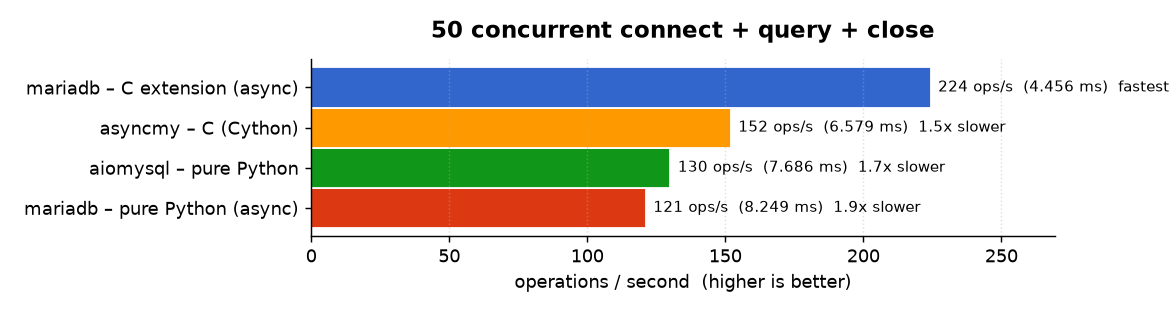
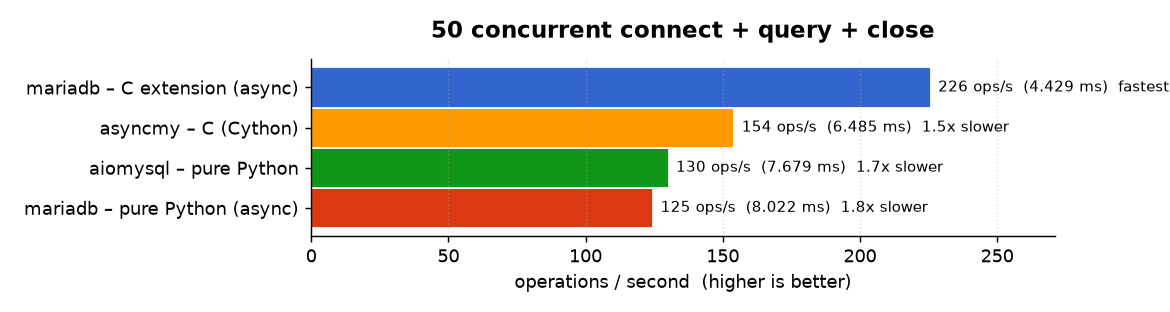
[misc] bench result update

diff --git a/benchmarks/colfunc_bench.py b/benchmarks/colfunc_bench.py
@@ -10,7 +10,7 @@ import os, time, decimal, datetime
 os.environ["MARIADB_PYTHON_CONNECTOR"] = "python"
 import mariadb
 from mariadb.impl.client.base_client import BaseClient
-from mariadb.impl.client import base_client as bc
+from mariadb.impl.client import base_client as bc  # noqa: F401  (_unpack_* helpers)
 from mariadb_shared.constants import FIELD_TYPE
 
 CFG = dict(host=os.environ.get("TEST_DB_HOST", "localhost"), port=int(os.environ.get("TEST_DB_PORT", 3306)),
@@ -57,12 +57,20 @@ def conv_time(v):
     seconds, _, fraction = parts[2].partition(b'.')
     td = _td(0, _int(parts[0]) * 3600 + _int(parts[1]) * 60 + _int(seconds), _int(fraction.ljust(6, b'0')) if fraction else 0)
     return -td if negative else td
+# field types by converter, as asyncmy's decoder table keys them (the driver
+# itself no longer has such sets: it folds the type into a per-column code when
+# the column definition is decoded, see column_definition_packet.KIND_*)
+_STRING_TYPES = frozenset((FIELD_TYPE.VARCHAR, FIELD_TYPE.BIT, FIELD_TYPE.ENUM, FIELD_TYPE.SET,
+                           FIELD_TYPE.TINY_BLOB, FIELD_TYPE.MEDIUM_BLOB, FIELD_TYPE.LONG_BLOB,
+                           FIELD_TYPE.BLOB, FIELD_TYPE.VAR_STRING, FIELD_TYPE.STRING,
+                           FIELD_TYPE.GEOMETRY, FIELD_TYPE.VECTOR))
 CONV = {}
-for t in bc._TEXT_INT_TYPES: CONV[t] = _int
-for t in bc._TEXT_FLOAT_TYPES: CONV[t] = _float
-for t in bc._TEXT_DECIMAL_TYPES: CONV[t] = conv_dec
-for t in bc._TEXT_DATETIME_TYPES: CONV[t] = conv_dt
-for t in bc._TEXT_DATE_TYPES: CONV[t] = conv_date
+for t in (FIELD_TYPE.TINY, FIELD_TYPE.SHORT, FIELD_TYPE.LONG, FIELD_TYPE.LONGLONG, FIELD_TYPE.INT24, FIELD_TYPE.YEAR):
+    CONV[t] = _int
+for t in (FIELD_TYPE.FLOAT, FIELD_TYPE.DOUBLE): CONV[t] = _float
+for t in (FIELD_TYPE.DECIMAL, FIELD_TYPE.NEWDECIMAL): CONV[t] = conv_dec
+for t in (FIELD_TYPE.DATETIME, FIELD_TYPE.TIMESTAMP): CONV[t] = conv_dt
+for t in (FIELD_TYPE.DATE, FIELD_TYPE.NEWDATE): CONV[t] = conv_date
 CONV[FIELD_TYPE.TIME] = conv_time
 def build_converters(columns, num_cols):
     """asyncmy's _get_descriptions() equivalent: one converter per column."""
@@ -70,7 +78,7 @@ def build_converters(columns, num_cols):
     out = [None] * num_cols
     for i in range(num_cols):
         t = types[i]
-        if t in bc._TEXT_STRING_TYPES:
+        if t in _STRING_TYPES:
             out[i] = conv_str if (charsets[i] != 63 or special[i]) else _bytes
         else:
             out[i] = CONV.get(t, conv_str)

diff --git a/docs/benchmarks.md b/docs/benchmarks.md
@@ -18,58 +18,29 @@ with the commands under [Reproducing](#reproducing).
 
 ### Synchronous drivers
 
-The `mariadb` **C extension is the fastest driver in almost every benchmark**;
-the pure-Python `mariadb` implementation edges it only where there is nothing to
-parse (`DO 1`, `DO 1000 params` in text mode) or where the work is building the
-packet (the 10,000-row batch insert). The pure-Python `mariadb` implementation
-is the **fastest pure-Python driver in every benchmark** and on result-set
-parsing it is **on par with MySQL Connector/Python's C extension** (e.g.
-`SELECT 100 columns`, text: 6,929 vs 7,126 ops/s; binary: 6,053 vs 5,501 ops/s).
-Selected results (operations per second, higher is better):
+The `mariadb` **C extension is the fastest driver in almost every benchmark**
+
 
 | Workload | mariadb (C) | vs pure-Python `mariadb` | vs MySQL Connector/C |
 |---|---|---|---|
-| `SELECT 1` (simple query) | **84,663 ops/s** | 1.7× faster | 2.5× faster |
-| `SELECT 1000 rows` (binary) | **5,670 ops/s** | 4.6× faster | 3.8× faster |
-| `SELECT 100 columns` (binary) | **13,065 ops/s** | 2.2× faster | 2.4× faster |
-| `DO 1000 params` (binary) | **2,747 ops/s** | 2.0× faster | 35× faster |
-| Batch `INSERT` (100 rows) | **8,023 ops/s** | 1.2× faster | 3.4× faster |
-| 500 pooled queries from 20 threads | **54 ops/s** | 1.8× faster | 2.6× faster |
+| `SELECT 1` (simple query) | **77,241 ops/s** | 1.7× faster | 2.4× faster |
+| `SELECT 1000 rows` (binary) | **5,216 ops/s** | 3.8× faster | 3.8× faster |
+| `SELECT 100 columns` (binary) | **11,287 ops/s** | 2.1× faster | 2.2× faster |
+| `DO 1000 params` (binary) | **2,292 ops/s** | 1.7× faster | 31× faster |
+| Batch `INSERT` (100 rows) | **7,511 ops/s** | 1.2× faster | 3.3× faster |
+| 500 pooled queries from 20 threads | **52 ops/s** | 2.0× faster | 2.6× faster |
 
 ### Asynchronous drivers
 
-No single async driver wins everywhere. The `mariadb` C extension leads on
-round-trips with a result set, wide rows, small batches, **opening many
-connections at once** (1.5× asyncmy, 1.9× the pure-Python driver) and above
-all the **connection pool** (3.9× asyncmy, 2.2× aiomysql). The pure-Python
-`mariadb` driver leads on **bulk inserts** (10,000 rows: 2.7× asyncmy) and
-ties the C extension on parameter binding. **asyncmy's Cython row parser
-leads on bulk reads** (1000 plain rows: 2.0× the C extension) and, by a hair,
-on the bare `DO 1` round-trip. aiomysql is last everywhere except on
-connection setup, where it edges the pure-Python `mariadb` driver.
-
-This split is a deliberate trade-off: the `mariadb` async implementation is
-tuned for **small result sets**, which are by far the most common case in
-real applications (point queries, single-row lookups, short lists), rather
-than for streaming thousands of rows per query. asyncmy's row parser builds
-a tuple of per-column converter functions once per result set and calls one
-per field; that setup pays off over thousands of rows but is pure overhead on
-a one-row result. Measured on the pure-Python row decoder with identical
-buffers (see the note under the async table below), the per-column-function
-design decodes a one-row `SELECT 1` 20% slower and a one-row, 10-column
-mixed result 8 to 11% slower, for a 6 to 7% gain on 1000-row results. We
-keep the design that wins on the small result set. That is why the driver
-leads on `SELECT 1`, wide single rows, connection setup and the pool, and
-trails only on the bulk-read benchmark.
 
 | Workload | fastest | mariadb (C) | mariadb (pure Python) | asyncmy (C) |
 |---|---|---|---|---|
-| `SELECT 1` | mariadb (C) | **26,141 ops/s** | 1.2× slower | 1.2× slower |
-| `SELECT 100 columns` | mariadb (C) | **11,677 ops/s** | 2.1× slower | 2.4× slower |
-| Batch `INSERT` (10,000 rows) | mariadb (pure Python) | 1.1× slower | **50 ops/s** | 2.7× slower |
-| `SELECT 1000 rows` | asyncmy | 2.0× slower | 4.3× slower | **5,446 ops/s** |
-| 50 concurrent connect + query + close | mariadb (C) | **224 ops/s** | 1.9× slower | 1.5× slower |
-| 500 pooled queries, 5–20 pool | mariadb (C) | **35 ops/s** | 1.5× slower | 3.9× slower |
+| `SELECT 1` | mariadb (C) | **26,118 ops/s** | 1.3× slower | 1.1× slower |
+| `SELECT 100 columns` | mariadb (C) | **11,989 ops/s** | 2.1× slower | 2.7× slower |
+| Batch `INSERT` (10,000 rows) | mariadb (pure Python) | 1.2× slower | **52 ops/s** | 2.9× slower |
+| `SELECT 1000 rows` | asyncmy | 2.1× slower | 3.5× slower | **5,652 ops/s** |
+| 50 concurrent connect + query + close | mariadb (C) | **226 ops/s** | 1.8× slower | 1.5× slower |
+| 500 pooled queries, 5–20 pool | mariadb (C) | **36 ops/s** | 1.4× slower | 4.0× slower |
 
 ## Environment
 
@@ -81,7 +52,7 @@ trails only on the bulk-read benchmark.
 | Drivers | mariadb 2.0 (C extension and pure Python) · PyMySQL 1.2.0 · mysql-connector-python 9.7.0 · asyncmy 0.2.14 · aiomysql 0.3.2 |
 | Tooling | [pytest-benchmark](https://pypi.org/project/pytest-benchmark/) 5.2.3 · ≥ 1000 rounds per micro-benchmark, fewer for the heavy scenarios (10k-row batches, pools, connection storms) · GC disabled during timing |
 | Method | 1 warm-up pass (discarded) then 3 reported passes; the **median** per-call time across the 3 is reported (→ ops/s) |
-| Date | 2026-09-12 (sync), 2026-09-13 (async) |
+| Date | 2026-10-05 (sync and async) |
 
 > ⚠ Sub-millisecond micro-benchmarks are sensitive to machine state (CPU
 > frequency scaling, background load, caches). These figures are meant for
@@ -98,19 +69,19 @@ driver behaves under the GIL as much as its wire efficiency).
 
 | Benchmark | mariadb – C extension | mariadb – pure Python | PyMySQL – pure Python | mysql-connector – C | mysql-connector – pure Python |
 |---|---|---|---|---|---|
-| DO 1 — command round-trip | 101,379 ops/s (1.0x) | 105,469 ops/s **(fastest)** | 92,207 ops/s (1.1x) | 54,052 ops/s (2.0x) | 31,207 ops/s (3.4x) |
-| SELECT 1 — simple query | 84,663 ops/s **(fastest)** | 49,212 ops/s (1.7x) | 43,138 ops/s (2.0x) | 34,163 ops/s (2.5x) | 18,215 ops/s (4.6x) |
-| INSERT — mixed types (single row) | 33,404 ops/s **(fastest)** | 27,108 ops/s (1.2x) | 27,623 ops/s (1.2x) | 29,880 ops/s (1.1x) | 17,617 ops/s (1.9x) |
-| Batch INSERT — 100 rows (executemany) | 8,023 ops/s **(fastest)** | 6,529 ops/s (1.2x) | 2,157 ops/s (3.7x) | 2,355 ops/s (3.4x) | 1,787 ops/s (4.5x) |
-| SELECT 1000 rows — binary protocol | 5,670 ops/s **(fastest)** | 1,246 ops/s (4.6x) | – | 1,495 ops/s (3.8x) | 288 ops/s (19.7x) |
-| SELECT 1000 rows — text protocol | 6,522 ops/s **(fastest)** | 1,464 ops/s (4.5x) | 534 ops/s (12.2x) | 1,754 ops/s (3.7x) | 354 ops/s (18.4x) |
-| SELECT 100 columns — binary protocol | 13,065 ops/s **(fastest)** | 6,053 ops/s (2.2x) | – | 5,501 ops/s (2.4x) | 1,221 ops/s (10.7x) |
-| SELECT 100 columns — text protocol | 17,013 ops/s **(fastest)** | 6,929 ops/s (2.5x) | 2,533 ops/s (6.7x) | 7,126 ops/s (2.4x) | 2,373 ops/s (7.2x) |
-| DO 1000 params — binary protocol | 2,747 ops/s **(fastest)** | 1,365 ops/s (2.0x) | – | 79 ops/s (35.0x) | 61 ops/s (44.7x) |
-| DO 1000 params — text protocol | 4,027 ops/s (1.0x) | 4,031 ops/s **(fastest)** | 2,208 ops/s (1.8x) | 2,850 ops/s (1.4x) | 1,075 ops/s (3.7x) |
-| Batch INSERT — 10,000 rows (executemany) | 47 ops/s (1.1x) | 52 ops/s **(fastest)** | 15 ops/s (3.5x) | 15 ops/s (3.5x) | 8 ops/s (6.9x) |
-| 50 threads: connect + query + close | 273 ops/s **(fastest)** | 160 ops/s (1.7x) | 141 ops/s (1.9x) | 153 ops/s (1.8x) | 72 ops/s (3.8x) |
-| 500 queries from 20 threads through a 5–20 pool | 54 ops/s **(fastest)** | 30 ops/s (1.8x) | – | 21 ops/s (2.6x) | 9 ops/s (6.4x) |
+| DO 1 — command round-trip | 91,279 ops/s (1.1x) | 97,907 ops/s **(fastest)** | 84,372 ops/s (1.2x) | 49,408 ops/s (2.0x) | 26,432 ops/s (3.7x) |
+| SELECT 1 — simple query | 77,241 ops/s **(fastest)** | 44,895 ops/s (1.7x) | 39,677 ops/s (1.9x) | 32,288 ops/s (2.4x) | 17,368 ops/s (4.4x) |
+| INSERT — mixed types (single row) | 29,450 ops/s **(fastest)** | 28,185 ops/s (1.0x) | 26,078 ops/s (1.1x) | 27,133 ops/s (1.1x) | 17,003 ops/s (1.7x) |
+| Batch INSERT — 100 rows (executemany) | 7,511 ops/s **(fastest)** | 6,213 ops/s (1.2x) | 2,048 ops/s (3.7x) | 2,276 ops/s (3.3x) | 1,794 ops/s (4.2x) |
+| SELECT 1000 rows — binary protocol | 5,216 ops/s **(fastest)** | 1,390 ops/s (3.8x) | – | 1,362 ops/s (3.8x) | 279 ops/s (18.7x) |
+| SELECT 1000 rows — text protocol | 5,745 ops/s **(fastest)** | 1,674 ops/s (3.4x) | 511 ops/s (11.3x) | 1,515 ops/s (3.8x) | 340 ops/s (16.9x) |
+| SELECT 100 columns — binary protocol | 11,287 ops/s **(fastest)** | 5,357 ops/s (2.1x) | – | 5,107 ops/s (2.2x) | 1,177 ops/s (9.6x) |
+| SELECT 100 columns — text protocol | 14,771 ops/s **(fastest)** | 6,654 ops/s (2.2x) | 2,249 ops/s (6.6x) | 6,410 ops/s (2.3x) | 2,307 ops/s (6.4x) |
+| DO 1000 params — binary protocol | 2,292 ops/s **(fastest)** | 1,310 ops/s (1.7x) | – | 73 ops/s (31.6x) | 58 ops/s (39.5x) |
+| DO 1000 params — text protocol | 3,647 ops/s **(fastest)** | 3,561 ops/s (1.0x) | 2,063 ops/s (1.8x) | 2,431 ops/s (1.5x) | 1,034 ops/s (3.5x) |
+| Batch INSERT — 10,000 rows (executemany) | 43 ops/s (1.2x) | 50 ops/s **(fastest)** | 14 ops/s (3.7x) | 14 ops/s (3.5x) | 7 ops/s (7.2x) |
+| 50 threads: connect + query + close | 249 ops/s **(fastest)** | 149 ops/s (1.7x) | 124 ops/s (2.0x) | 146 ops/s (1.7x) | 65 ops/s (3.8x) |
+| 500 queries from 20 threads through a 5–20 pool | 52 ops/s **(fastest)** | 27 ops/s (2.0x) | – | 20 ops/s (2.6x) | 8 ops/s (6.3x) |
 
 *(Multiplier in parentheses is how much slower than the fastest driver for that row.)*
 
@@ -165,36 +136,35 @@ handful of rows. Bulk reads are a secondary target.
 
 The row decoder illustrates the choice. asyncmy resolves a converter
 function per column once per result set and then calls `converter(value)`
-for every field; the `mariadb` decoder does no per-result-set setup and
-dispatches on the column type inline, with the most common types tested
-first. Replaying the same text-protocol buffers through the pure-Python
-decoder written both ways (median of 3 runs, one core, CPython 3.14) gives:
+for every field; the `mariadb` decoder settles a small decoder code per
+column while the column definitions are read (so a result set costs it no
+setup at all) and dispatches on that code inline, with the most common
+types tested first. Replaying the same text-protocol buffers through the
+pure-Python decoder written both ways (best of 15 runs, one core,
+CPython 3.14, `colfunc_bench.py`) gives:
 
 | Result set | inline dispatch (ours) | per-column functions | change |
 |---|---|---|---|
-| 1 row × 1 int (`SELECT 1`) | 534 ns | 641 ns | +20% |
-| 1 row × 10 mixed columns | 3.15 µs | 3.45 µs | +8 to +11% |
-| 1000 rows × 1 int | 371 µs | 345 µs | −6% |
-| 1000 rows × 10 mixed columns | 3.10 ms | 2.90 ms | −7% |
+| 1 row × 1 int (`SELECT 1`) | 462 ns | 638 ns | +38% |
+| 1 row × 10 mixed columns | 2.57 µs | 3.50 µs | +36% |
+| 1000 rows × 1 int | 278 µs | 352 µs | +27% |
+| 1000 rows × 10 mixed columns | 2.51 ms | 2.88 ms | +15% |
 
-The per-column-function layout only starts paying back after a few dozen
-rows, and asyncmy's remaining lead on 1000 rows comes from its Cython
-implementation rather than from that layout. An earlier variant that
-precomputed per-column "kind" codes once per result set showed the same
-pattern end to end (+1 to 2% on single-row queries for −12% on a 10,000-row
-scan) and was rejected for the same reason.
+The per-column-function layout is behind at every size, most of all on the
+one-row results; asyncmy's lead on 1000 rows comes from its Cython
+implementation rather than from that layout.
 
 | Benchmark | mariadb – C extension (async) | mariadb – pure Python (async) | asyncmy – C (Cython) | aiomysql – pure Python |
 |---|---|---|---|---|
-| DO 1 — command round-trip | 29,774 ops/s (1.1x) | 30,666 ops/s (1.0x) | 32,040 ops/s **(fastest)** | 29,820 ops/s (1.1x) |
-| SELECT 1 — simple query | 26,141 ops/s **(fastest)** | 21,739 ops/s (1.2x) | 22,231 ops/s (1.2x) | 18,968 ops/s (1.4x) |
-| Batch INSERT — 100 rows (executemany) | 5,502 ops/s **(fastest)** | 4,784 ops/s (1.2x) | 2,144 ops/s (2.6x) | 1,945 ops/s (2.8x) |
-| Batch INSERT — 10,000 rows (executemany) | 44 ops/s (1.1x) | 50 ops/s **(fastest)** | 18 ops/s (2.7x) | 15 ops/s (3.4x) |
-| SELECT 1000 rows | 2,783 ops/s (2.0x) | 1,256 ops/s (4.3x) | 5,446 ops/s **(fastest)** | 420 ops/s (13.0x) |
-| SELECT 100 columns | 11,677 ops/s **(fastest)** | 5,588 ops/s (2.1x) | 4,894 ops/s (2.4x) | 2,072 ops/s (5.6x) |
-| DO 1000 params | 3,471 ops/s **(fastest)** | 3,446 ops/s (1.0x) | 2,895 ops/s (1.2x) | 2,389 ops/s (1.5x) |
-| 50 concurrent connect + query + close | 224 ops/s **(fastest)** | 121 ops/s (1.9x) | 152 ops/s (1.5x) | 130 ops/s (1.7x) |
-| 500 concurrent queries through a 5–20 pool | 35 ops/s **(fastest)** | 24 ops/s (1.5x) | 9 ops/s (3.9x) | 16 ops/s (2.2x) |
+| DO 1 — command round-trip | 30,256 ops/s (1.1x) | 31,446 ops/s (1.1x) | 33,963 ops/s **(fastest)** | 29,839 ops/s (1.1x) |
+| SELECT 1 — simple query | 26,118 ops/s **(fastest)** | 20,667 ops/s (1.3x) | 22,727 ops/s (1.1x) | 19,509 ops/s (1.3x) |
+| Batch INSERT — 100 rows (executemany) | 5,027 ops/s (1.0x) | 5,142 ops/s **(fastest)** | 2,209 ops/s (2.3x) | 1,964 ops/s (2.6x) |
+| Batch INSERT — 10,000 rows (executemany) | 44 ops/s (1.2x) | 52 ops/s **(fastest)** | 18 ops/s (2.9x) | 15 ops/s (3.4x) |
+| SELECT 1000 rows | 2,678 ops/s (2.1x) | 1,624 ops/s (3.5x) | 5,652 ops/s **(fastest)** | 430 ops/s (13.1x) |
+| SELECT 100 columns | 11,989 ops/s **(fastest)** | 5,783 ops/s (2.1x) | 4,497 ops/s (2.7x) | 2,118 ops/s (5.7x) |
+| DO 1000 params | 3,504 ops/s (1.0x) | 3,642 ops/s **(fastest)** | 2,818 ops/s (1.3x) | 2,404 ops/s (1.5x) |
+| 50 concurrent connect + query + close | 226 ops/s **(fastest)** | 125 ops/s (1.8x) | 154 ops/s (1.5x) | 130 ops/s (1.7x) |
+| 500 concurrent queries through a 5–20 pool | 36 ops/s **(fastest)** | 25 ops/s (1.4x) | 9 ops/s (4.0x) | 16 ops/s (2.2x) |
 
 *(Multiplier in parentheses is how much slower than the fastest driver for that row.)*
 

diff --git a/docs/benchmarks/comparison_table.md b/docs/benchmarks/comparison_table.md
@@ -1,15 +1,15 @@
 | Benchmark | mariadb – C extension | mariadb – pure Python | PyMySQL – pure Python | mysql-connector – C | mysql-connector – pure Python |
 |---|---|---|---|---|---|
-| DO 1 — command round-trip | 101,379 ops/s (1.0x) | 105,469 ops/s **(fastest)** | 92,207 ops/s (1.1x) | 54,052 ops/s (2.0x) | 31,207 ops/s (3.4x) |
-| SELECT 1 — simple query | 84,663 ops/s **(fastest)** | 49,212 ops/s (1.7x) | 43,138 ops/s (2.0x) | 34,163 ops/s (2.5x) | 18,215 ops/s (4.6x) |
-| INSERT — mixed types (single row) | 33,404 ops/s **(fastest)** | 27,108 ops/s (1.2x) | 27,623 ops/s (1.2x) | 29,880 ops/s (1.1x) | 17,617 ops/s (1.9x) |
-| Batch INSERT — 100 rows (executemany) | 8,023 ops/s **(fastest)** | 6,529 ops/s (1.2x) | 2,157 ops/s (3.7x) | 2,355 ops/s (3.4x) | 1,787 ops/s (4.5x) |
-| SELECT 1000 rows — binary protocol | 5,670 ops/s **(fastest)** | 1,246 ops/s (4.6x) | – | 1,495 ops/s (3.8x) | 288 ops/s (19.7x) |
-| SELECT 1000 rows — text protocol | 6,522 ops/s **(fastest)** | 1,464 ops/s (4.5x) | 534 ops/s (12.2x) | 1,754 ops/s (3.7x) | 354 ops/s (18.4x) |
-| SELECT 100 columns — binary protocol | 13,065 ops/s **(fastest)** | 6,053 ops/s (2.2x) | – | 5,501 ops/s (2.4x) | 1,221 ops/s (10.7x) |
-| SELECT 100 columns — text protocol | 17,013 ops/s **(fastest)** | 6,929 ops/s (2.5x) | 2,533 ops/s (6.7x) | 7,126 ops/s (2.4x) | 2,373 ops/s (7.2x) |
-| DO 1000 params — binary protocol | 2,747 ops/s **(fastest)** | 1,365 ops/s (2.0x) | – | 79 ops/s (35.0x) | 61 ops/s (44.7x) |
-| DO 1000 params — text protocol | 4,027 ops/s (1.0x) | 4,031 ops/s **(fastest)** | 2,208 ops/s (1.8x) | 2,850 ops/s (1.4x) | 1,075 ops/s (3.7x) |
-| Batch INSERT — 10,000 rows (executemany) | 47 ops/s (1.1x) | 52 ops/s **(fastest)** | 15 ops/s (3.5x) | 15 ops/s (3.5x) | 8 ops/s (6.9x) |
-| 50 threads: connect + query + close | 273 ops/s **(fastest)** | 160 ops/s (1.7x) | 141 ops/s (1.9x) | 153 ops/s (1.8x) | 72 ops/s (3.8x) |
-| 500 queries from 20 threads through a 5–20 pool | 54 ops/s **(fastest)** | 30 ops/s (1.8x) | – | 21 ops/s (2.6x) | 9 ops/s (6.4x) |
+| DO 1 — command round-trip | 91,279 ops/s (1.1x) | 97,907 ops/s **(fastest)** | 84,372 ops/s (1.2x) | 49,408 ops/s (2.0x) | 26,432 ops/s (3.7x) |
+| SELECT 1 — simple query | 77,241 ops/s **(fastest)** | 44,895 ops/s (1.7x) | 39,677 ops/s (1.9x) | 32,288 ops/s (2.4x) | 17,368 ops/s (4.4x) |
+| INSERT — mixed types (single row) | 29,450 ops/s **(fastest)** | 28,185 ops/s (1.0x) | 26,078 ops/s (1.1x) | 27,133 ops/s (1.1x) | 17,003 ops/s (1.7x) |
+| Batch INSERT — 100 rows (executemany) | 7,511 ops/s **(fastest)** | 6,213 ops/s (1.2x) | 2,048 ops/s (3.7x) | 2,276 ops/s (3.3x) | 1,794 ops/s (4.2x) |
+| SELECT 1000 rows — binary protocol | 5,216 ops/s **(fastest)** | 1,390 ops/s (3.8x) | – | 1,362 ops/s (3.8x) | 279 ops/s (18.7x) |
+| SELECT 1000 rows — text protocol | 5,745 ops/s **(fastest)** | 1,674 ops/s (3.4x) | 511 ops/s (11.3x) | 1,515 ops/s (3.8x) | 340 ops/s (16.9x) |
+| SELECT 100 columns — binary protocol | 11,287 ops/s **(fastest)** | 5,357 ops/s (2.1x) | – | 5,107 ops/s (2.2x) | 1,177 ops/s (9.6x) |
+| SELECT 100 columns — text protocol | 14,771 ops/s **(fastest)** | 6,654 ops/s (2.2x) | 2,249 ops/s (6.6x) | 6,410 ops/s (2.3x) | 2,307 ops/s (6.4x) |
+| DO 1000 params — binary protocol | 2,292 ops/s **(fastest)** | 1,310 ops/s (1.7x) | – | 73 ops/s (31.6x) | 58 ops/s (39.5x) |
+| DO 1000 params — text protocol | 3,647 ops/s **(fastest)** | 3,561 ops/s (1.0x) | 2,063 ops/s (1.8x) | 2,431 ops/s (1.5x) | 1,034 ops/s (3.5x) |
+| Batch INSERT — 10,000 rows (executemany) | 43 ops/s (1.2x) | 50 ops/s **(fastest)** | 14 ops/s (3.7x) | 14 ops/s (3.5x) | 7 ops/s (7.2x) |
+| 50 threads: connect + query + close | 249 ops/s **(fastest)** | 149 ops/s (1.7x) | 124 ops/s (2.0x) | 146 ops/s (1.7x) | 65 ops/s (3.8x) |
+| 500 queries from 20 threads through a 5–20 pool | 52 ops/s **(fastest)** | 27 ops/s (2.0x) | – | 20 ops/s (2.6x) | 8 ops/s (6.3x) |

diff --git a/docs/benchmarks/comparison_table_async.md b/docs/benchmarks/comparison_table_async.md
@@ -1,11 +1,11 @@
 | Benchmark | mariadb – C extension (async) | mariadb – pure Python (async) | asyncmy – C (Cython) | aiomysql – pure Python |
 |---|---|---|---|---|
-| DO 1 — command round-trip | 29,774 ops/s (1.1x) | 30,666 ops/s (1.0x) | 32,040 ops/s **(fastest)** | 29,820 ops/s (1.1x) |
-| SELECT 1 — simple query | 26,141 ops/s **(fastest)** | 21,739 ops/s (1.2x) | 22,231 ops/s (1.2x) | 18,968 ops/s (1.4x) |
-| Batch INSERT — 100 rows (executemany) | 5,502 ops/s **(fastest)** | 4,784 ops/s (1.2x) | 2,144 ops/s (2.6x) | 1,945 ops/s (2.8x) |
-| Batch INSERT — 10,000 rows (executemany) | 44 ops/s (1.1x) | 50 ops/s **(fastest)** | 18 ops/s (2.7x) | 15 ops/s (3.4x) |
-| SELECT 1000 rows | 2,783 ops/s (2.0x) | 1,256 ops/s (4.3x) | 5,446 ops/s **(fastest)** | 420 ops/s (13.0x) |
-| SELECT 100 columns | 11,677 ops/s **(fastest)** | 5,588 ops/s (2.1x) | 4,894 ops/s (2.4x) | 2,072 ops/s (5.6x) |
-| DO 1000 params | 3,471 ops/s **(fastest)** | 3,446 ops/s (1.0x) | 2,895 ops/s (1.2x) | 2,389 ops/s (1.5x) |
-| 50 concurrent connect + query + close | 224 ops/s **(fastest)** | 121 ops/s (1.9x) | 152 ops/s (1.5x) | 130 ops/s (1.7x) |
-| 500 concurrent queries through a 5–20 pool | 35 ops/s **(fastest)** | 24 ops/s (1.5x) | 9 ops/s (3.9x) | 16 ops/s (2.2x) |
+| DO 1 — command round-trip | 30,256 ops/s (1.1x) | 31,446 ops/s (1.1x) | 33,963 ops/s **(fastest)** | 29,839 ops/s (1.1x) |
+| SELECT 1 — simple query | 26,118 ops/s **(fastest)** | 20,667 ops/s (1.3x) | 22,727 ops/s (1.1x) | 19,509 ops/s (1.3x) |
+| Batch INSERT — 100 rows (executemany) | 5,027 ops/s (1.0x) | 5,142 ops/s **(fastest)** | 2,209 ops/s (2.3x) | 1,964 ops/s (2.6x) |
+| Batch INSERT — 10,000 rows (executemany) | 44 ops/s (1.2x) | 52 ops/s **(fastest)** | 18 ops/s (2.9x) | 15 ops/s (3.4x) |
+| SELECT 1000 rows | 2,678 ops/s (2.1x) | 1,624 ops/s (3.5x) | 5,652 ops/s **(fastest)** | 430 ops/s (13.1x) |
+| SELECT 100 columns | 11,989 ops/s **(fastest)** | 5,783 ops/s (2.1x) | 4,497 ops/s (2.7x) | 2,118 ops/s (5.7x) |
+| DO 1000 params | 3,504 ops/s (1.0x) | 3,642 ops/s **(fastest)** | 2,818 ops/s (1.3x) | 2,404 ops/s (1.5x) |
+| 50 concurrent connect + query + close | 226 ops/s **(fastest)** | 125 ops/s (1.8x) | 154 ops/s (1.5x) | 130 ops/s (1.7x) |
+| 500 concurrent queries through a 5–20 pool | 36 ops/s **(fastest)** | 25 ops/s (1.4x) | 9 ops/s (4.0x) | 16 ops/s (2.2x) |
